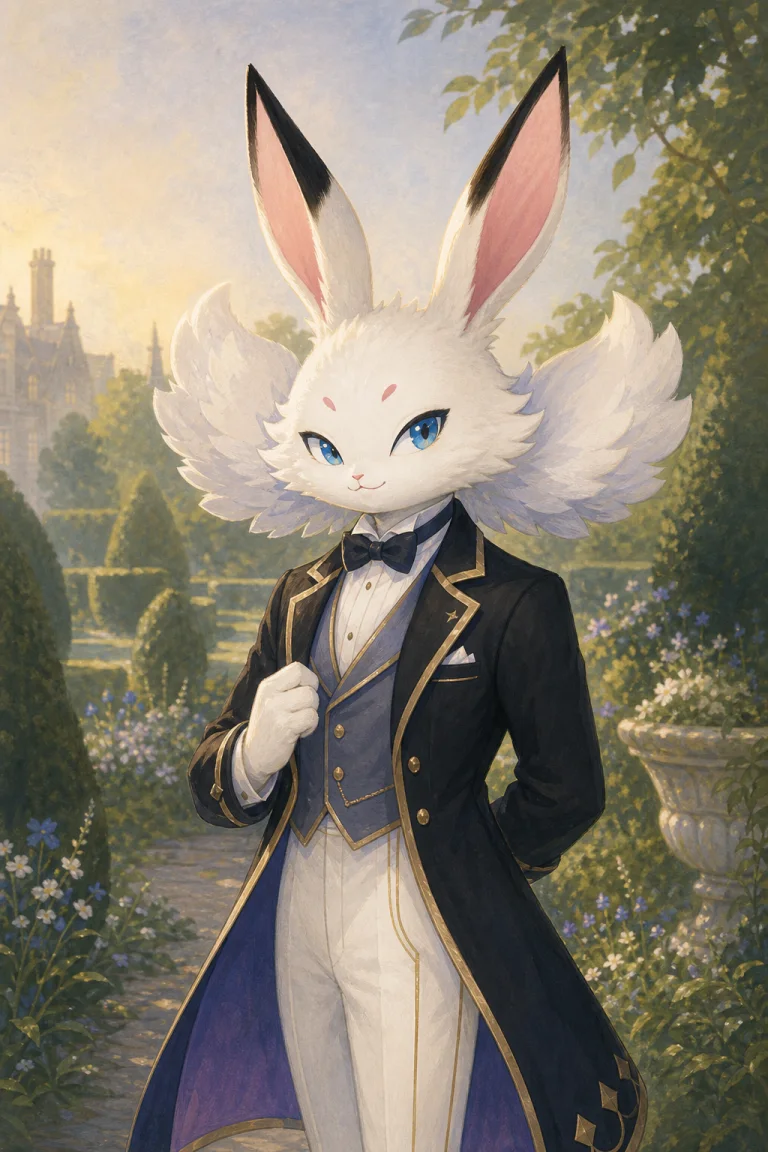
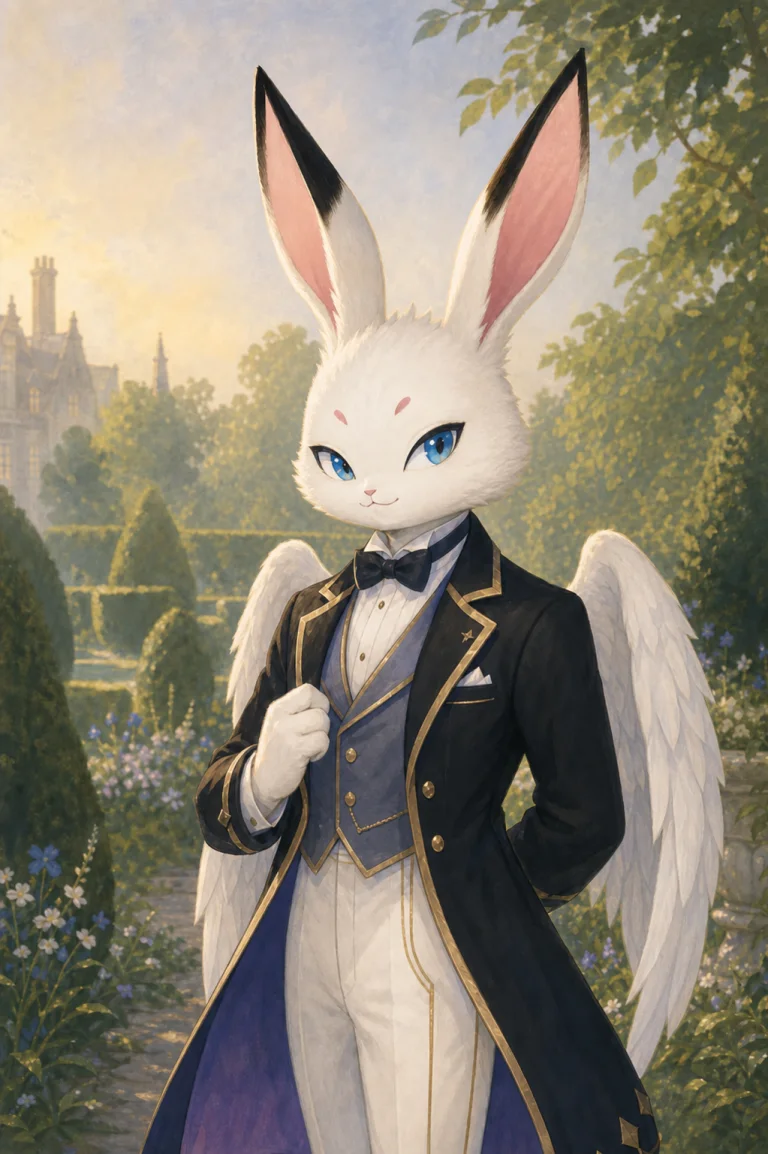
Update Lucien with mood-based portraits

diff --git a/packages/content/src/index.ts b/packages/content/src/index.ts
@@ -22,6 +22,26 @@ export const companions = [
   }
 ] as const;
 
+export const companionMoodArtwork = {
+  "character-butler-alistair": {
+    DELIGHTED: "/images/companions/lucien-delighted.webp",
+    PROUD: "/images/companions/lucien-proud.webp",
+    CHEERFUL: "/images/companions/lucien-cheerful.webp",
+    CALM: "/images/companions/lucien.webp",
+    WORRIED: "/images/companions/lucien-worried.webp",
+    LONELY: "/images/companions/lucien-lonely.webp",
+    SULKING: "/images/companions/lucien-sulking.webp"
+  }
+} as const;
+
+export function getCompanionArtwork(
+  characterId: string,
+  mood: ButlerMood
+): string | undefined {
+  if (characterId !== britishGentlemanWorld.character.id) return undefined;
+  return companionMoodArtwork[britishGentlemanWorld.character.id][mood];
+}
+
 export const categories = [
   { id: "category-body", key: "strength", name: "身体", statusName: "Strength", icon: "⚔" },
   { id: "category-writing", key: "writing", name: "執筆", statusName: "Writing", icon: "✒" },

diff --git a/packages/content/test/companions.test.ts b/packages/content/test/companions.test.ts
@@ -1,0 +1,31 @@
+import {
+  britishGentlemanWorld,
+  companionMoodArtwork,
+  getCompanionArtwork,
+  type ButlerMood
+} from "../src/index";
+import { describe, expect, it } from "vitest";
+
+const moods: ButlerMood[] = [
+  "DELIGHTED",
+  "PROUD",
+  "CHEERFUL",
+  "CALM",
+  "WORRIED",
+  "LONELY",
+  "SULKING"
+];
+
+describe("companion mood artwork", () => {
+  it("provides a Lucien portrait for every mood", () => {
+    for (const mood of moods) {
+      expect(getCompanionArtwork(britishGentlemanWorld.character.id, mood)).toBe(
+        companionMoodArtwork[britishGentlemanWorld.character.id][mood]
+      );
+    }
+  });
+
+  it("falls back for companions without mood variants", () => {
+    expect(getCompanionArtwork("character-butler-rowan", "CALM")).toBeUndefined();
+  });
+});

diff --git a/apps/web/lib/game-service.ts b/apps/web/lib/game-service.ts
@@ -3,6 +3,7 @@ import {
   butlerMessages,
   categories,
   companions,
+  getCompanionArtwork,
   habitTemplates,
   type ButlerMood
 } from "@growlogue/content";
@@ -371,7 +372,9 @@ export async function getDashboard(userId: string) {
       id: characterState.character.id,
       name: characterState.character.name,
       personality: characterState.character.personality,
-      avatarUrl: characterState.character.avatarUrl,
+      avatarUrl:
+        getCompanionArtwork(characterState.character.id, mood) ??
+        characterState.character.avatarUrl,
       mood,
       message: butlerMessages[mood][0]
     }
